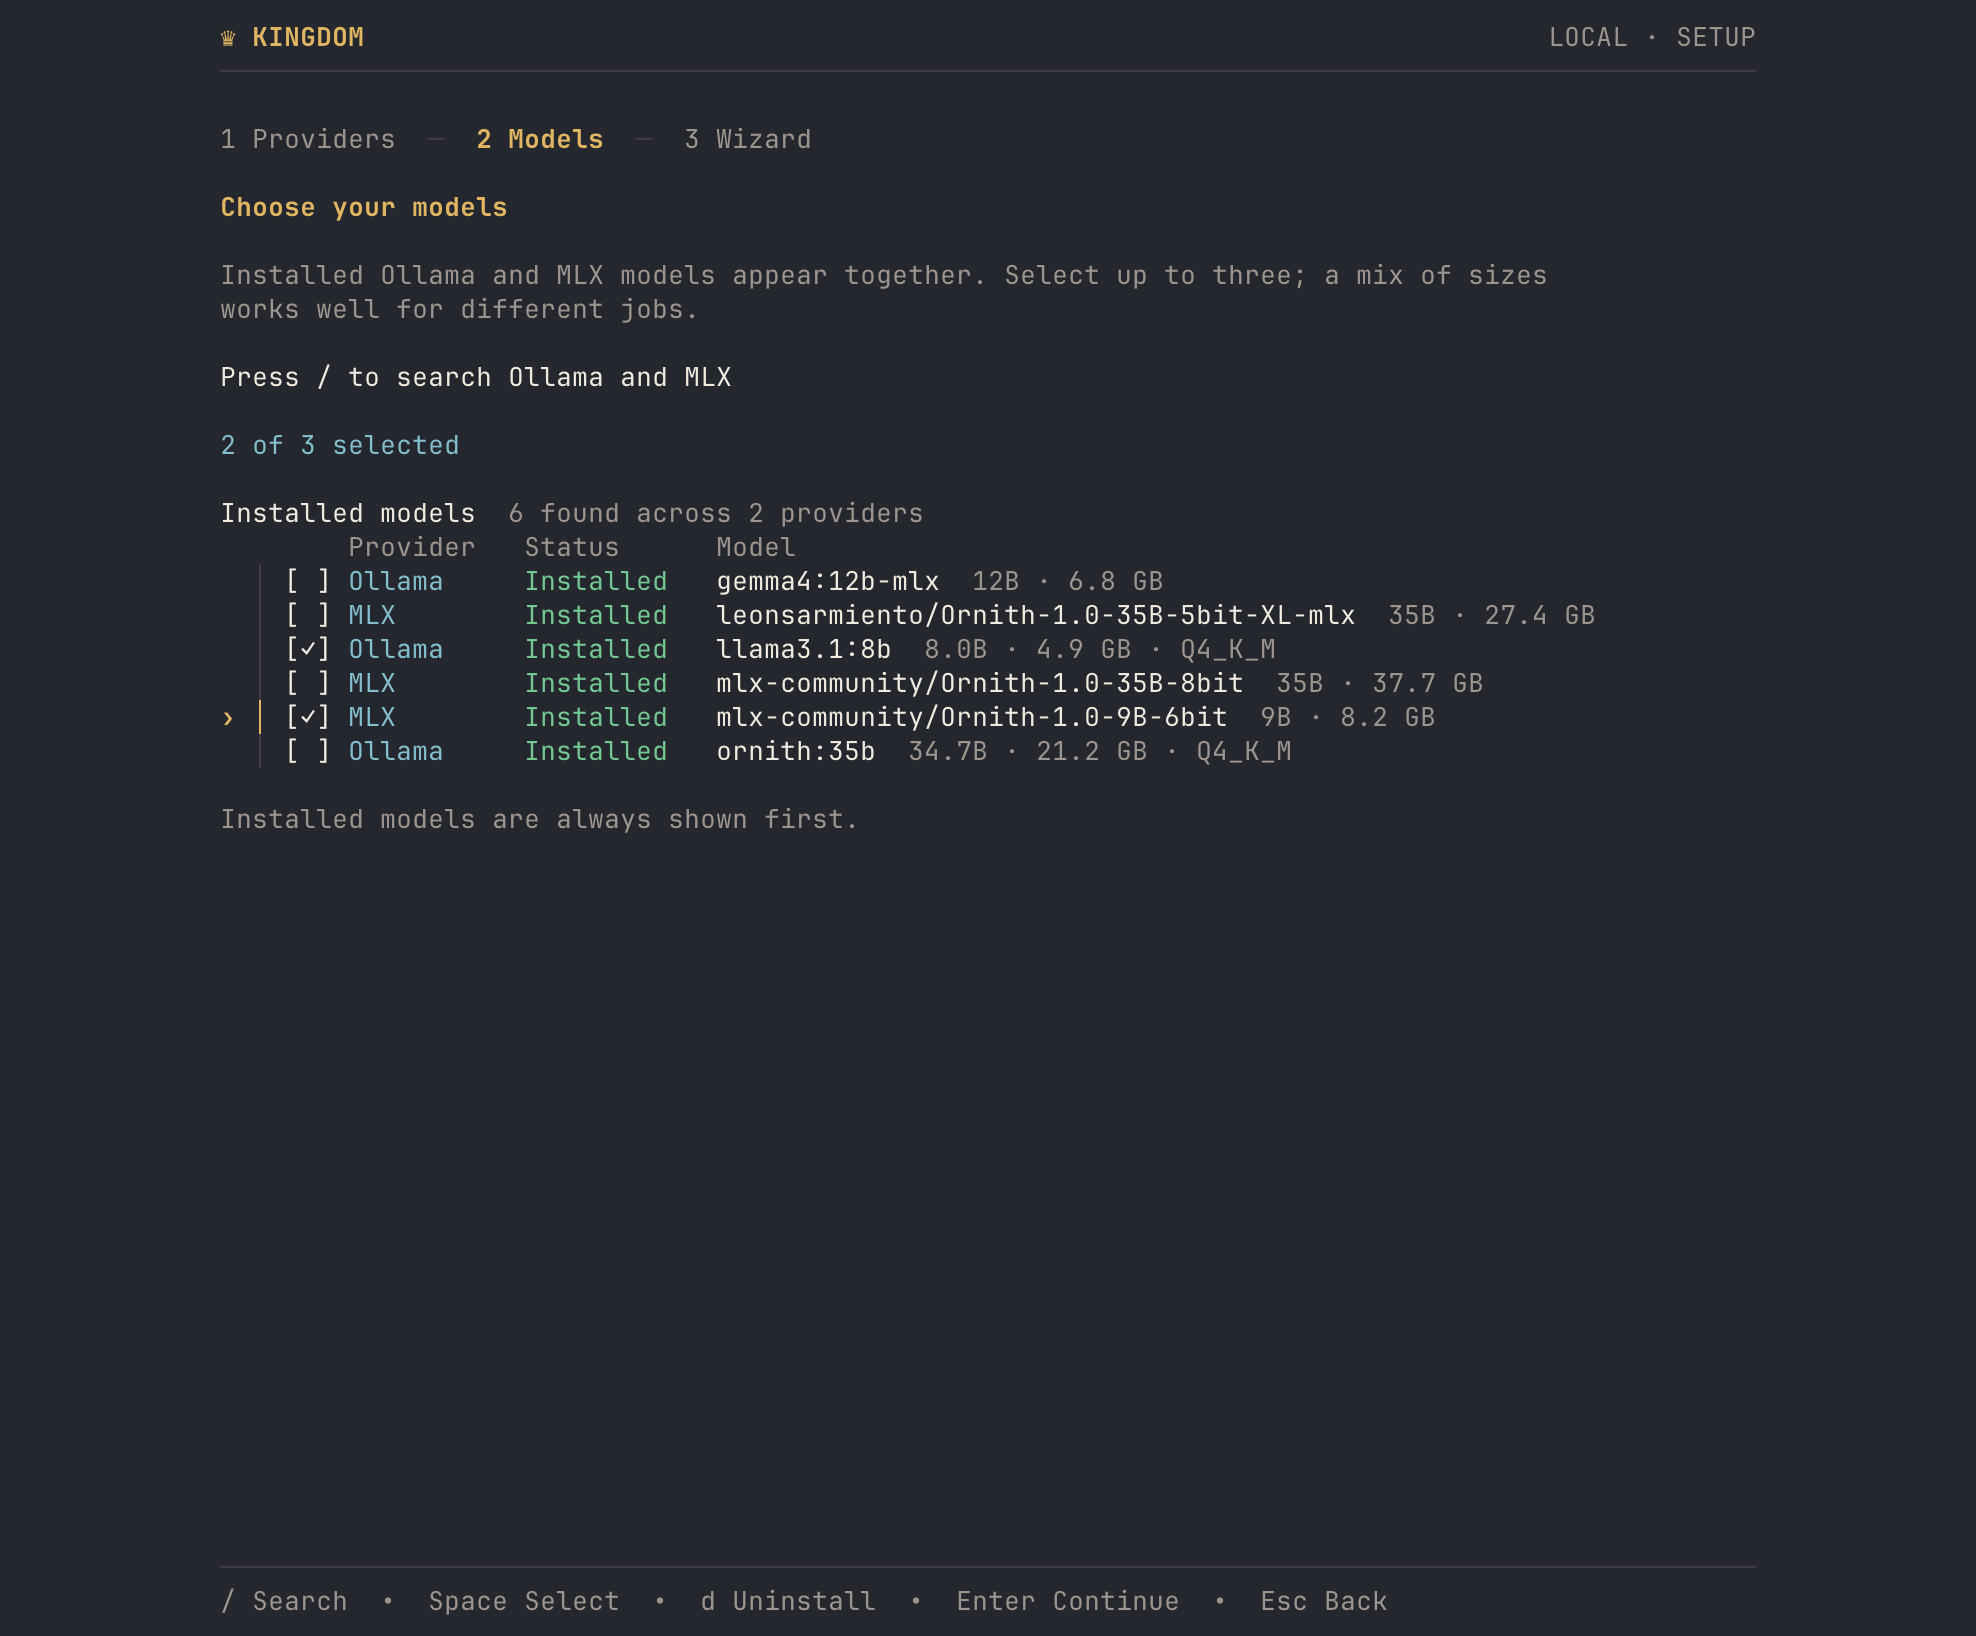
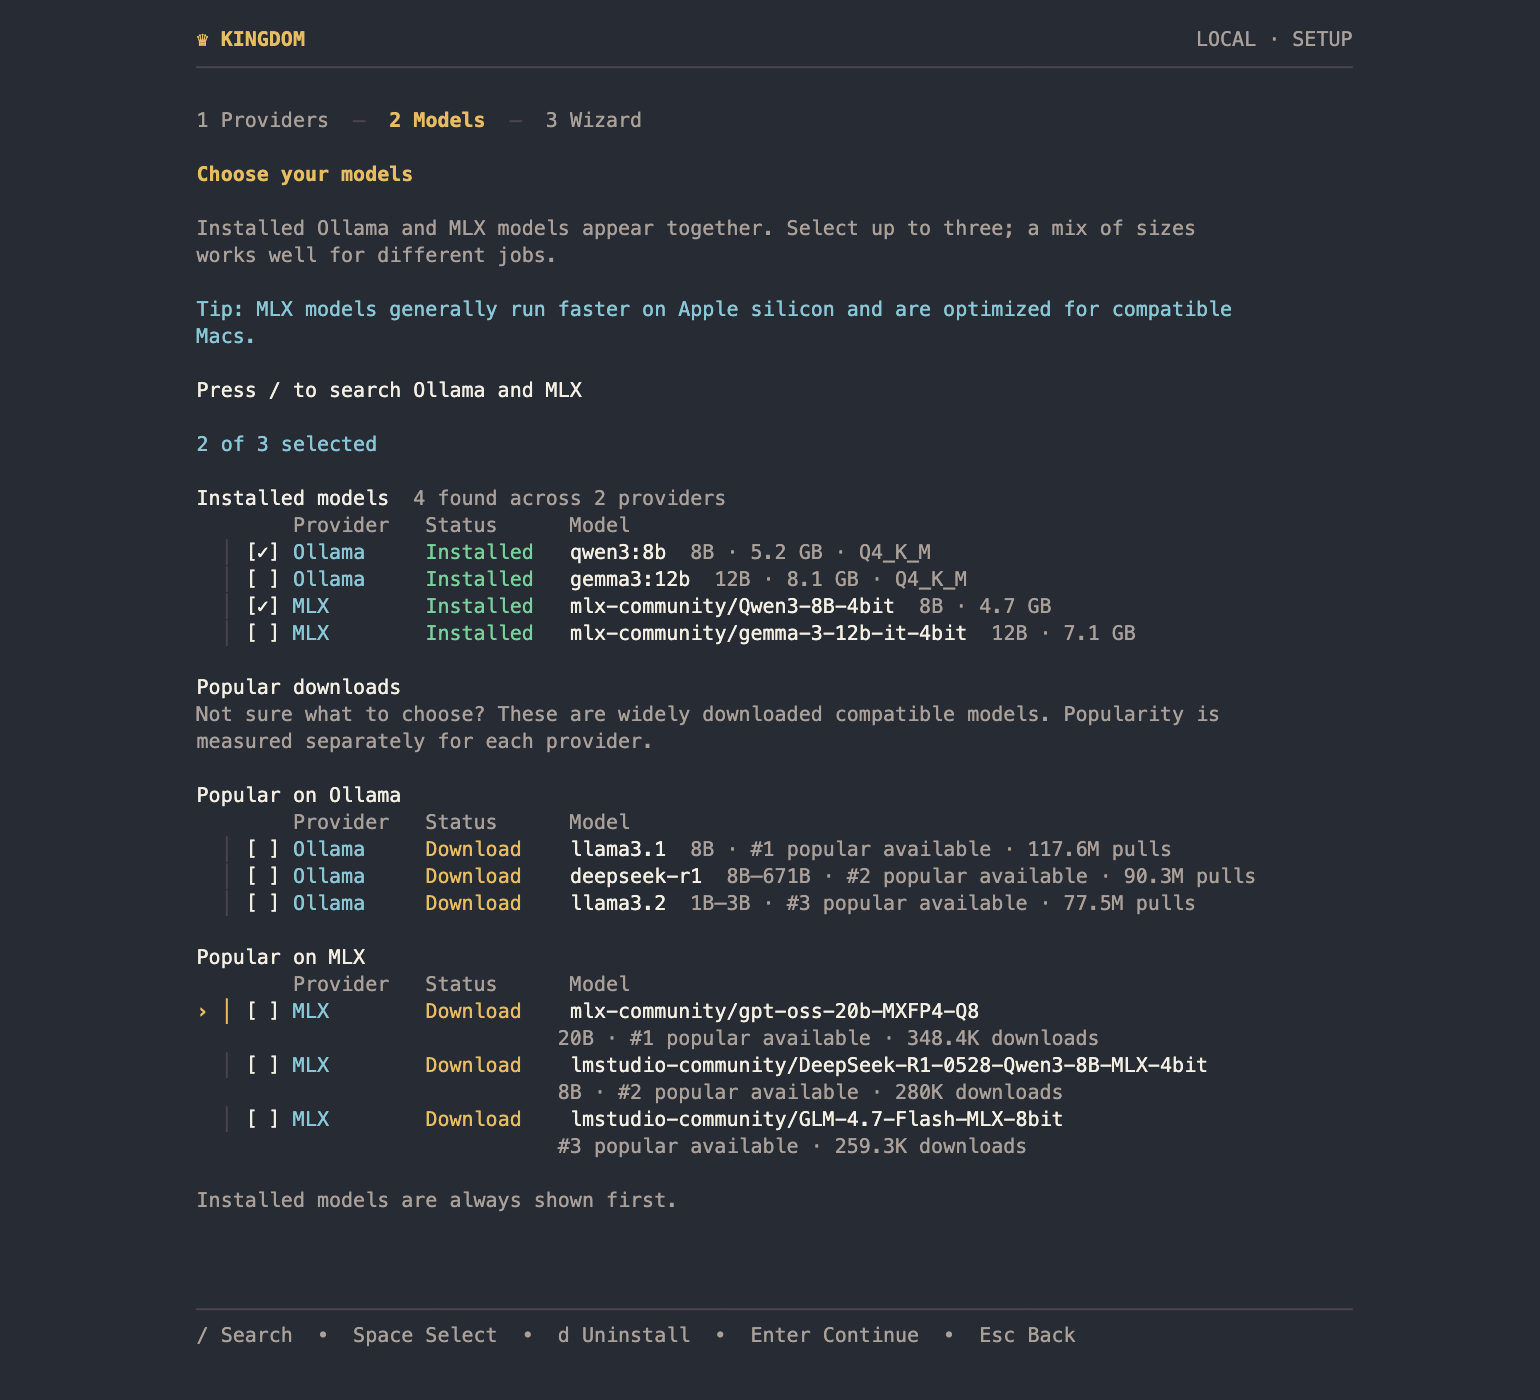
docs(readme): refresh setup guide and screenshots

diff --git a/README.md b/README.md
@@ -69,15 +69,20 @@ provider is ready.
 
 ### 2. Choose models
 
-Installed Ollama and MLX models appear together and are prioritised in the list. Press `/` to search
-both enabled providers, then select up to three models with `Space`. Missing models are downloaded
-only after confirmation.
+Installed Ollama and MLX models appear first in one aligned list. Below them, Kingdom shows separate
+**Popular on Ollama** and **Popular on MLX** sections, so useful defaults are easy to browse without
+mixing the two providers together. Popularity is ranked independently for each provider.
+
+Press `/` to fuzzy-search both enabled providers, then select up to three models with `Space`.
+Missing models are downloaded only after confirmation. MLX models are discovered through compatible
+repositories on Hugging Face; on Apple silicon, they generally run faster and are the recommended
+MLX option.
 
 During a download, Kingdom shows the active model, queue position, downloaded and total size,
 transfer speed, progress, and estimated time remaining. When every model is ready, Kingdom opens the
 Wizard.
 
-![Kingdom model selection with Ollama and MLX models](docs/images/setup-models.png)
+![Kingdom model selection with installed models and separate popular Ollama and MLX sections](docs/images/setup-models.png)
 
 ### 3. Finish with the Wizard
 
@@ -98,8 +103,9 @@ apply the proposal and launch Kingdom. Press `Tab` at any time to use the model-
 ## Main prompt
 
 The main screen keeps the conversation on the left and live model activity on the right. Each model
-shows its assigned roles, current state, and measured tokens per second after it has generated text.
-Write a prompt and press `Ctrl+Enter` to send it; press `Esc` to cancel a running response.
+shows its provider, assigned roles, current state, and measured tokens per second after it has
+generated text. Write a prompt and press `Ctrl+Enter` to send it; press `Esc` to cancel a running
+response.
 
 ![Kingdom main prompt with conversation and model activity panels](docs/images/main-prompt.png)
 
